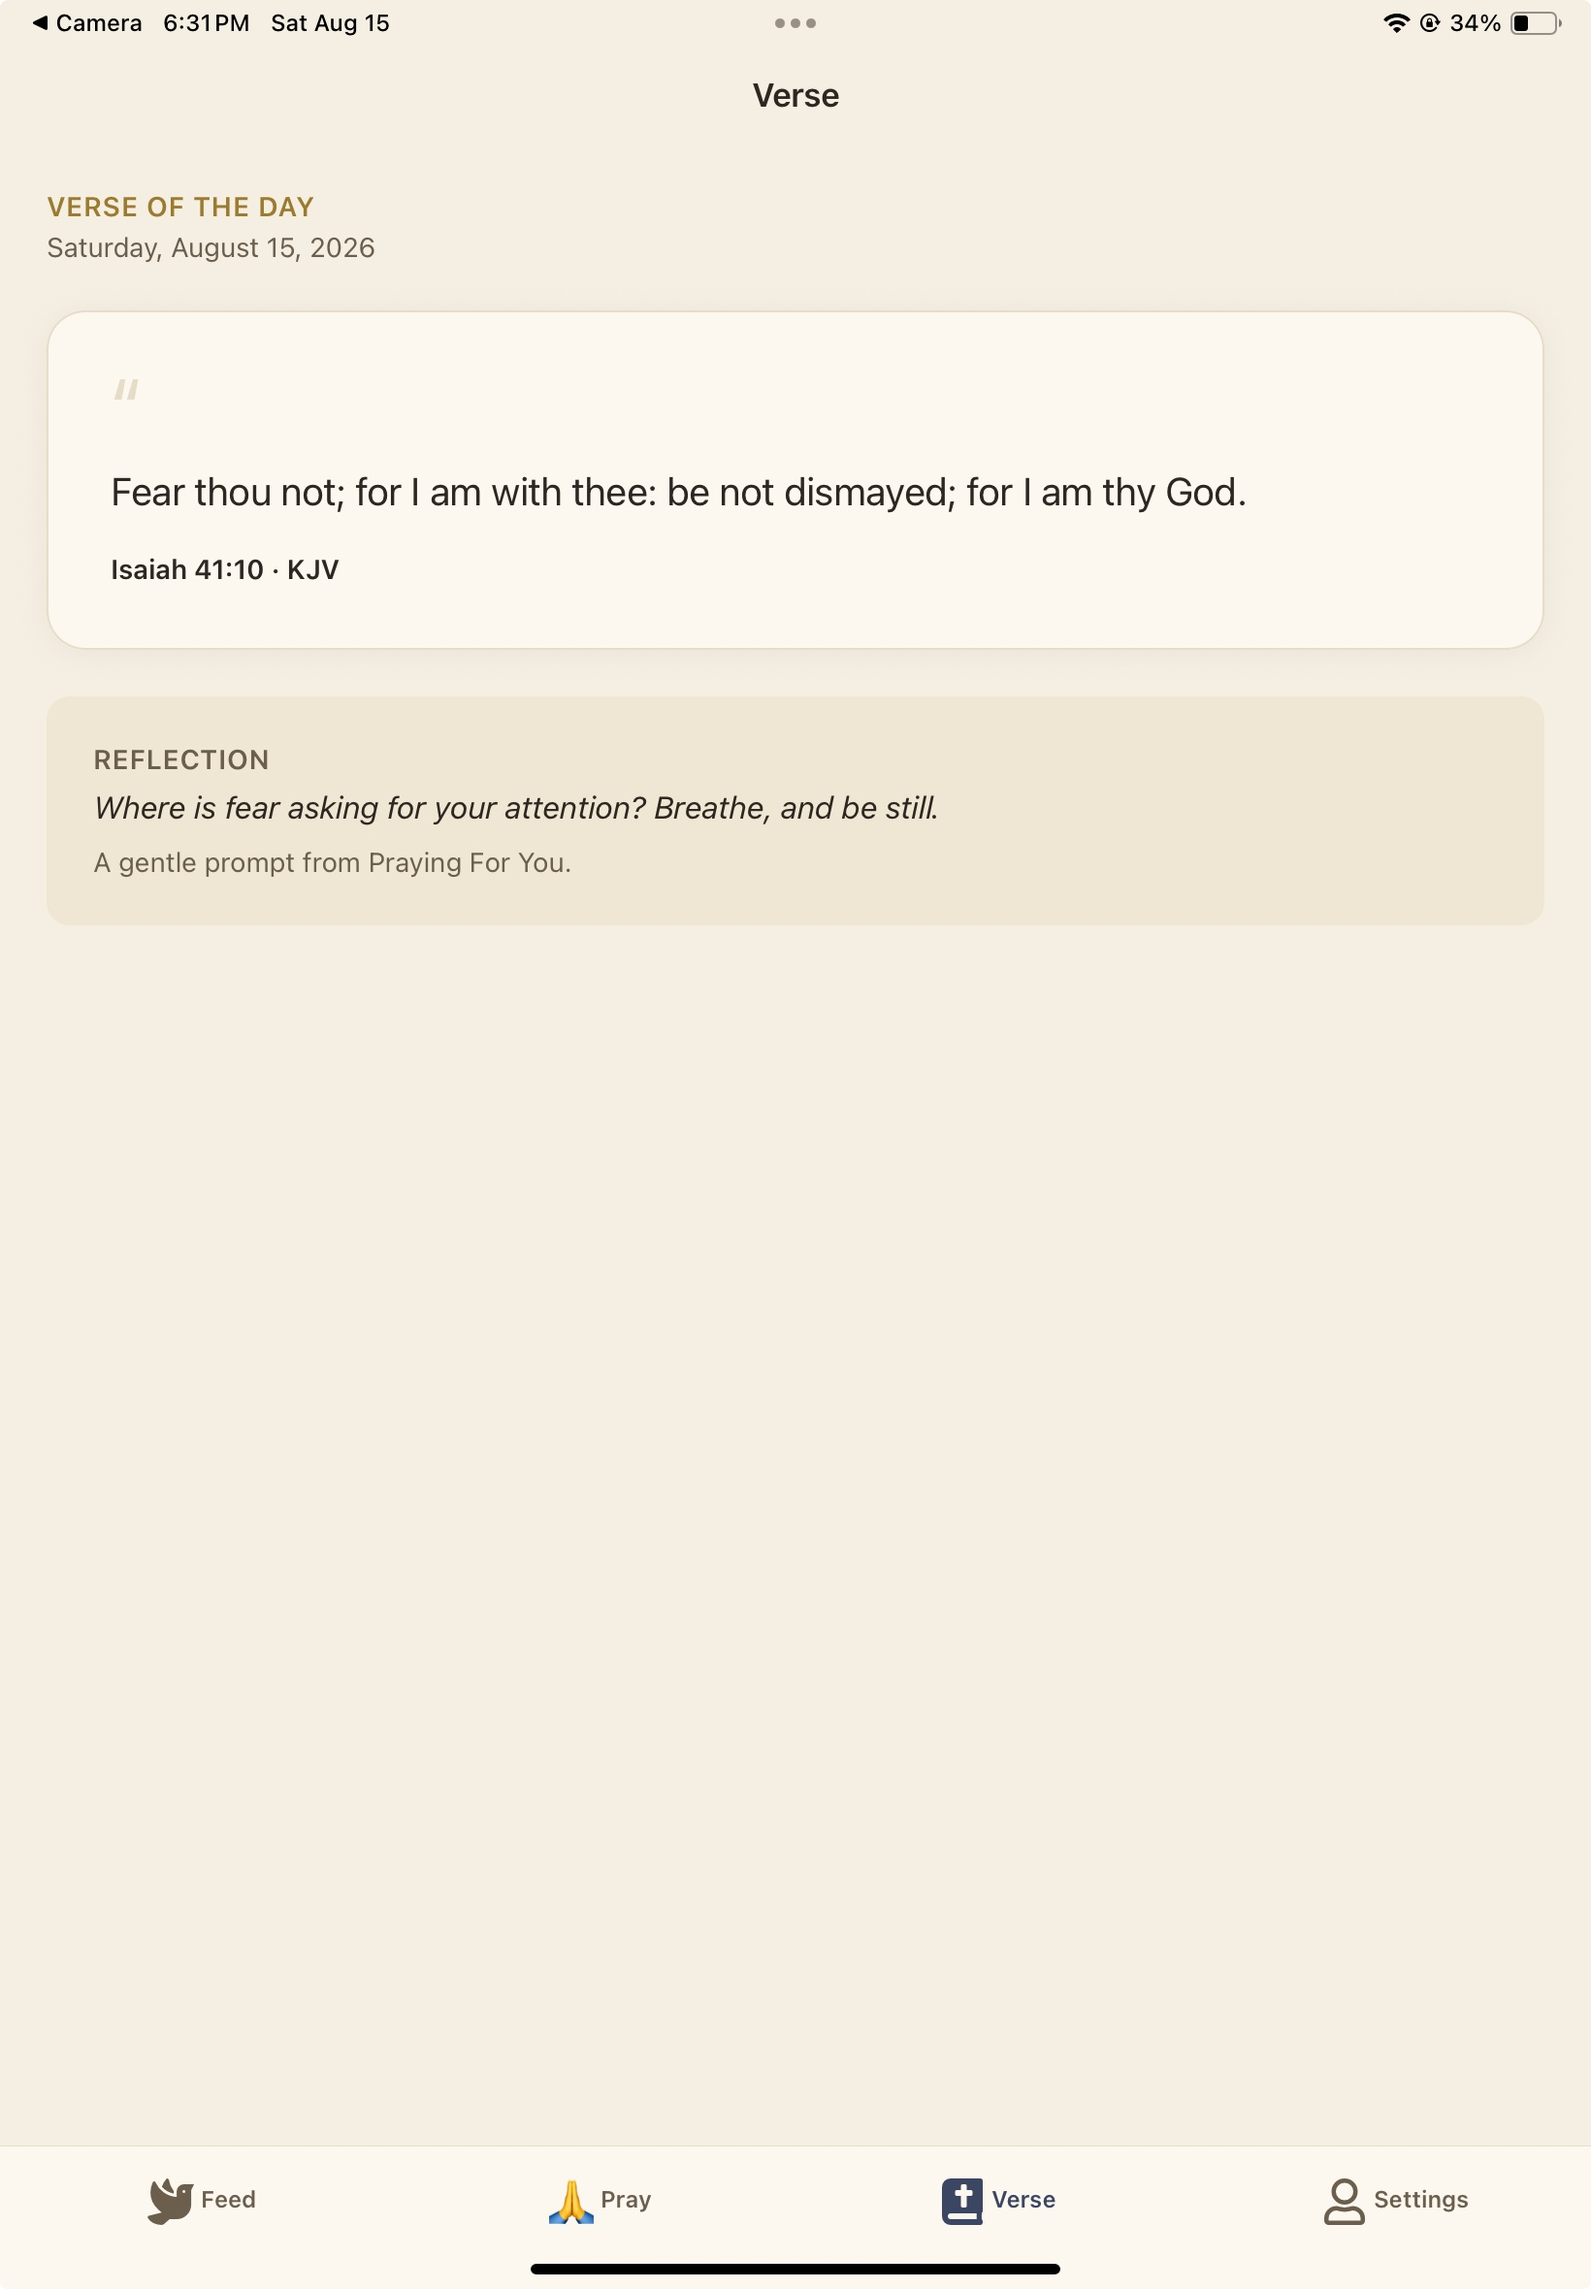
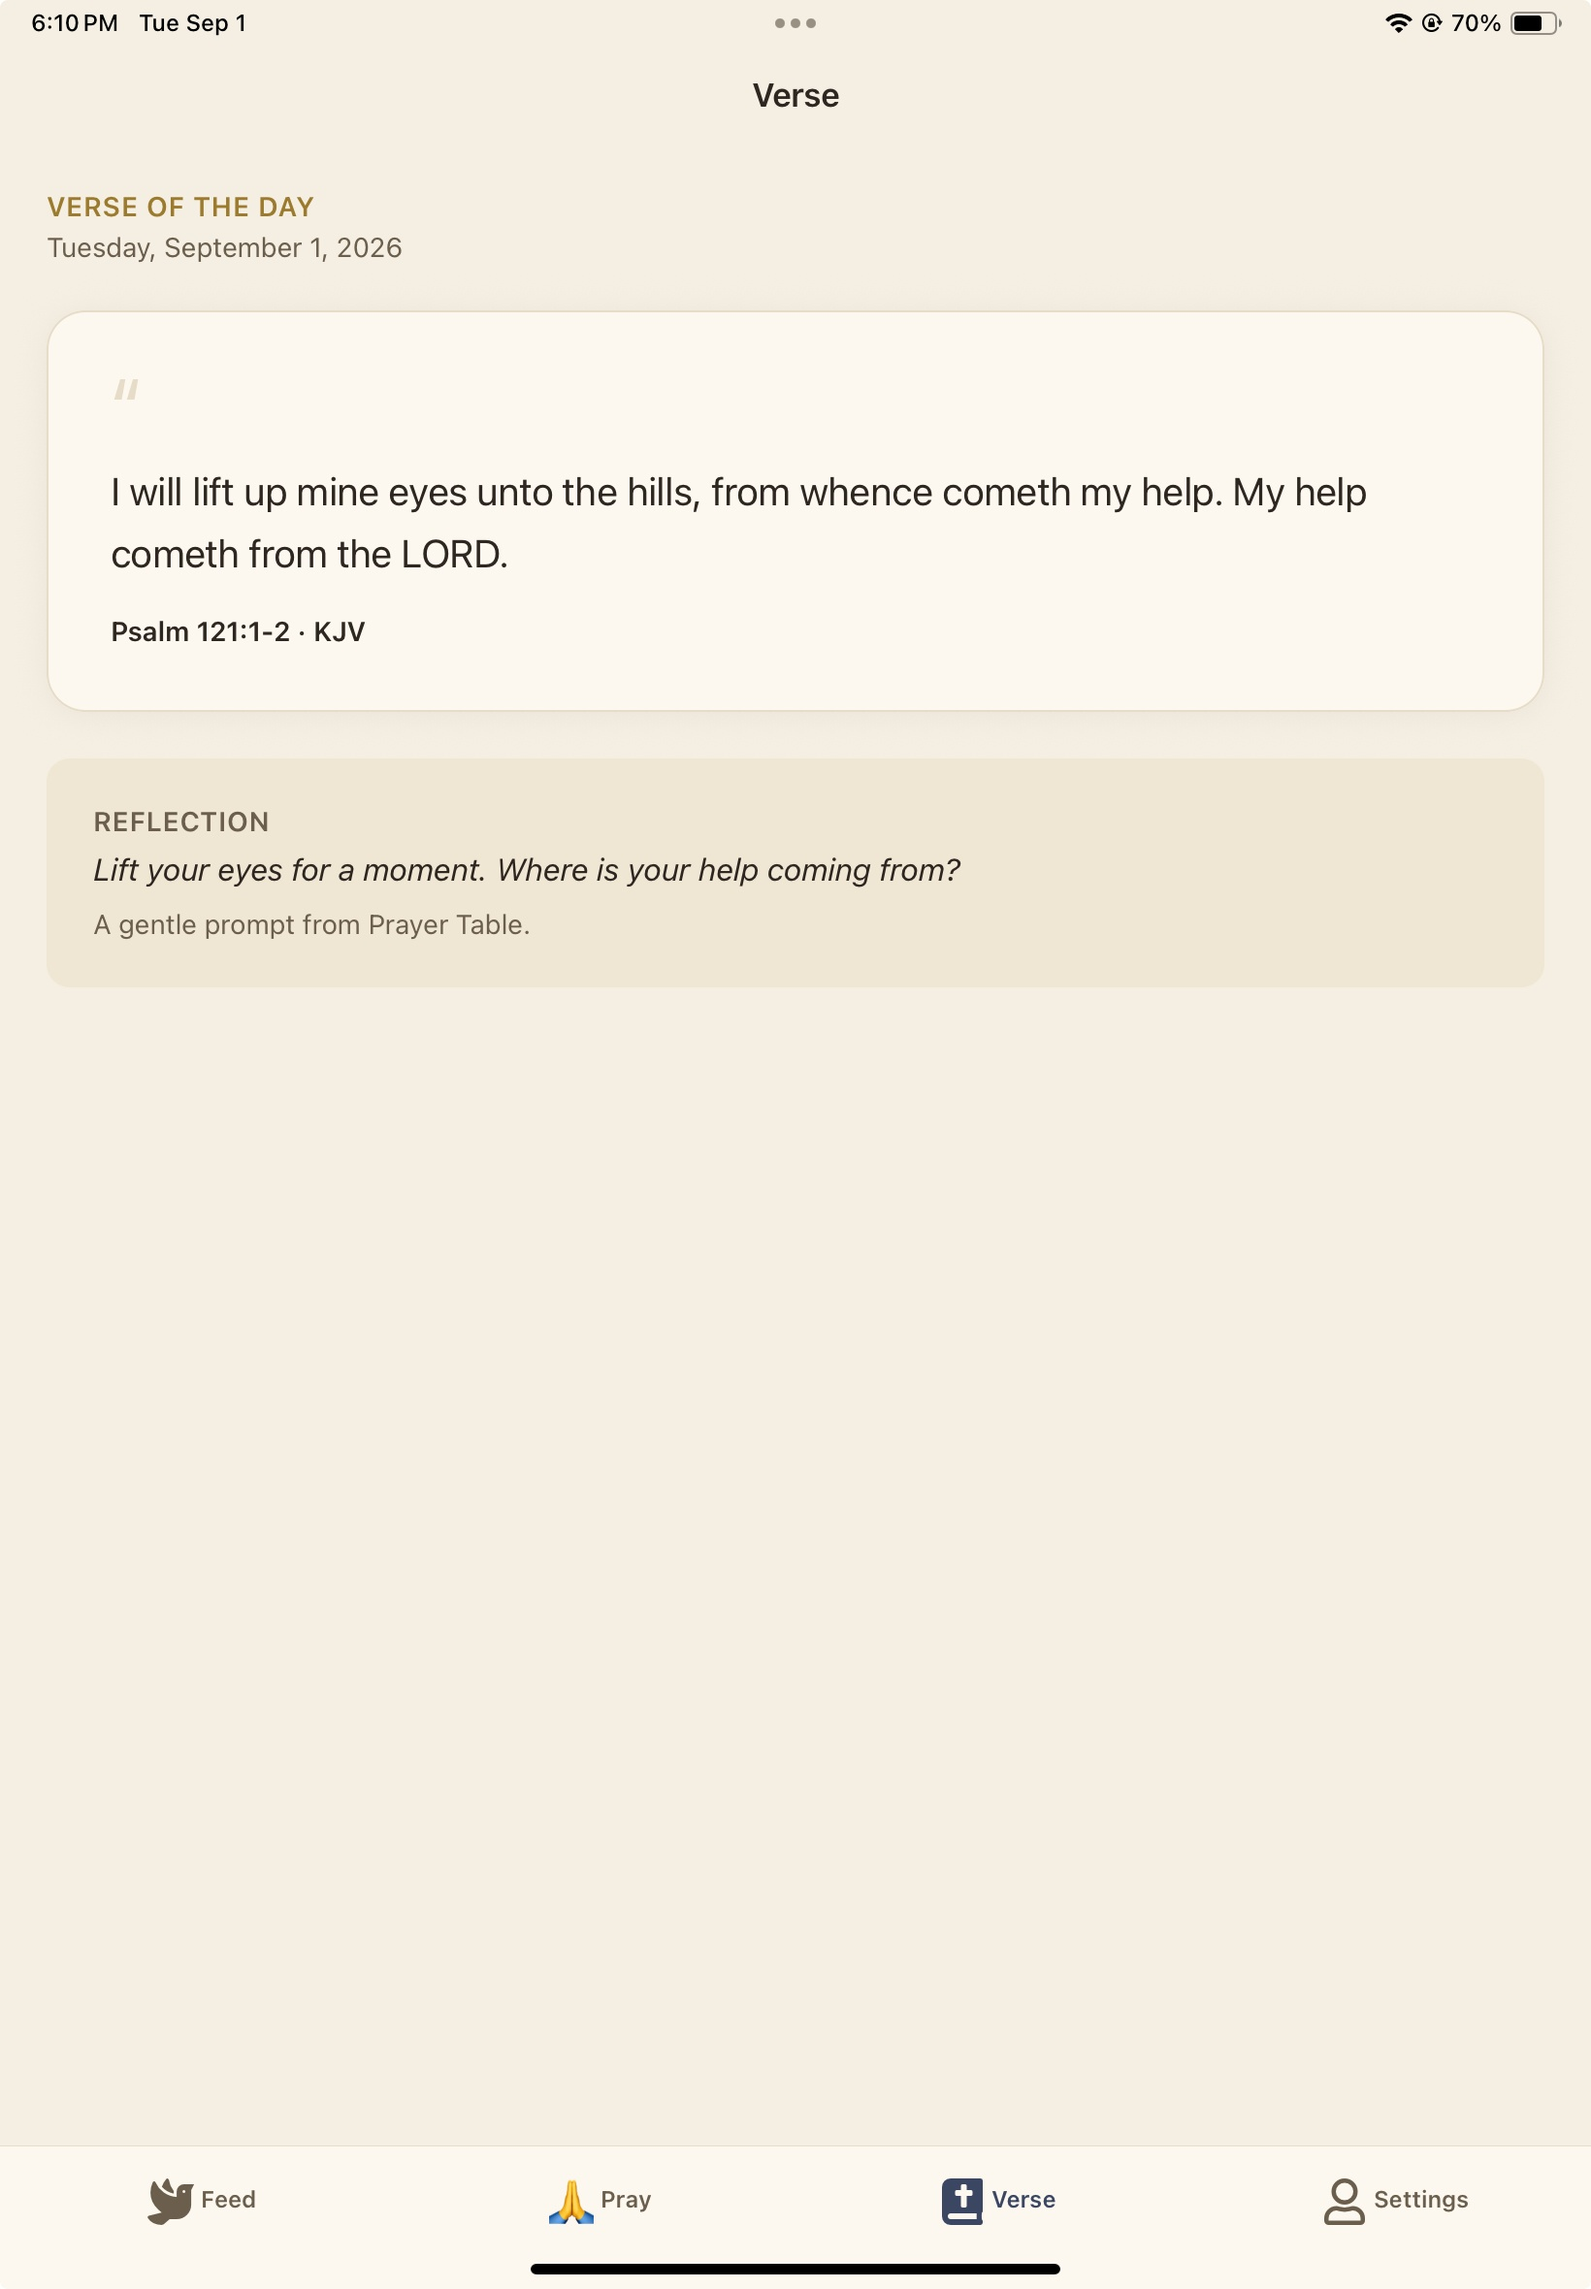
Refresh store assets for Prayer Table

diff --git a/store-assets/review/index.html b/store-assets/review/index.html
@@ -3,7 +3,7 @@
 <head>
   <meta charset="utf-8">
   <meta name="viewport" content="width=device-width, initial-scale=1">
-  <title>Praying For You Store Asset Review</title>
+  <title>Prayer Table Store Asset Review</title>
   <style>
     :root { color-scheme: light; --paper:#f5efe3; --ink:#2b2118; --muted:#6f6257; --gold:#b58a3b; --line:#d8c9b5; --card:#fffdf8; }
     * { box-sizing:border-box; } body { margin:0; background:var(--paper); color:var(--ink); font:16px/1.5 system-ui,sans-serif; }
@@ -18,13 +18,13 @@
 </head>
 <body><main>
   <p class="status">APPROVED BY OWNER</p>
-  <h1>Praying For You Store Assets v0.1</h1>
+  <h1>Prayer Table Store Assets v0.2</h1>
   <p>A focused owner review of production-ready store graphics and authentic current-app screenshots.</p>
   <h2>Completed graphics</h2>
   <section class="grid">
     <article class="card"><img class="icon" src="../apple/app-icon-1024.png" alt="Praying hands app icon on a warm cream background"><h3>Apple App Store icon</h3><dl><dt>Platform</dt><dd>Apple App Store</dd><dt>Dimensions</dt><dd>1024 x 1024 px</dd><dt>File</dt><dd><code>apple/app-icon-1024.png</code></dd><dt>Source</dt><dd><code>mobile-app/assets/icon.png</code></dd><dt>Status</dt><dd>Complete, pending approval</dd></dl></article>
     <article class="card"><img class="icon" src="../google-play/app-icon-512.png" alt="Praying hands app icon on a warm cream background"><h3>Google Play icon</h3><dl><dt>Platform</dt><dd>Google Play</dd><dt>Dimensions</dt><dd>512 x 512 px</dd><dt>File</dt><dd><code>google-play/app-icon-512.png</code></dd><dt>Source</dt><dd><code>mobile-app/assets/icon.png</code></dd><dt>Status</dt><dd>Complete, pending approval</dd></dl></article>
-    <article class="card"><img class="feature" src="../google-play/feature-graphic-1024x500.png" alt="Praying For You feature graphic with the words Share prayer. Pray together."><h3>Google Play feature graphic</h3><dl><dt>Platform</dt><dd>Google Play</dd><dt>Dimensions</dt><dd>1024 x 500 px</dd><dt>File</dt><dd><code>google-play/feature-graphic-1024x500.png</code></dd><dt>Source</dt><dd>Current icon and approved subtitle</dd><dt>Status</dt><dd>Complete, pending approval</dd></dl></article>
+    <article class="card"><img class="feature" src="../google-play/feature-graphic-1024x500.png" alt="Prayer Table feature graphic with the words Share prayer. Pray together."><h3>Google Play feature graphic</h3><dl><dt>Platform</dt><dd>Google Play</dd><dt>Dimensions</dt><dd>1024 x 500 px</dd><dt>File</dt><dd><code>google-play/feature-graphic-1024x500.png</code></dd><dt>Source</dt><dd>Current icon and approved subtitle</dd><dt>Status</dt><dd>Complete, pending approval</dd></dl></article>
   </section>
   <h2>Screenshot set</h2>
   <h3>Apple iPhone 6.3-inch, 1179 x 2556</h3>

diff --git a/store-assets/validation/build_assets.py b/store-assets/validation/build_assets.py
@@ -53,7 +53,7 @@ def font(size: int, bold: bool = False):
     return ImageFont.load_default()
 
 draw = ImageDraw.Draw(canvas)
-draw.text((82, 157), "Praying For You", font=font(55, True), fill="#2B2118")
+draw.text((82, 157), "Prayer Table", font=font(55, True), fill="#2B2118")
 draw.text((85, 235), "Share prayer. Pray together.", font=font(27), fill="#5F4B3A")
 draw.rounded_rectangle((84, 290, 380, 296), radius=3, fill="#B58A3B")
 canvas.save(FEATURE, "PNG", optimize=True)
@@ -75,7 +75,7 @@ ipad_sources = [
     ("02-create-request.jpeg", "02-create-request-and-anonymous-choice.jpg"),
     ("04-prayer-detail.jpeg", "03-prayer-detail.jpg"),
     ("05-prayed-for.jpeg", "04-prayers-prayed-for.jpg"),
-    ("06-verse-of-day.jpeg", "05-verse-of-the-day.jpg"),
+    ("06-verse-of-day-prayer-table.jpeg", "05-verse-of-the-day.jpg"),
 ]
 android_sources = [
     ("01-feed.png", "01-shared-prayer-feed.png"),
@@ -83,7 +83,7 @@ android_sources = [
     ("03-anonymous-choice.png", "03-anonymous-display-choice.png"),
     ("04-prayer-detail.png", "04-prayer-detail.png"),
     ("05-prayed-for.png", "05-prayers-prayed-for.png"),
-    ("06-verse-of-day.png", "06-verse-of-the-day.png"),
+    ("06-verse-of-day-prayer-table.png", "06-verse-of-the-day.png"),
 ]
 
 for source_name, output_name in iphone_sources:

diff --git a/store-assets/validation/validate_assets.py b/store-assets/validation/validate_assets.py
@@ -70,7 +70,7 @@ raw_counts = {
     "ios-iphone": len(list((ROOT / "store-assets/screenshots/raw/ios-iphone").glob("*.png"))),
     "ios-ipad": len(list((ROOT / "store-assets/screenshots/raw/ios-ipad").glob("*.jpeg"))),
 }
-ok &= raw_counts == {"android-phone": 6, "ios-iphone": 6, "ios-ipad": 6}
+ok &= raw_counts == {"android-phone": 7, "ios-iphone": 8, "ios-ipad": 7}
 
 report = {"status": "PASS" if ok else "FAIL", "assets": results, "broken_review_board_paths": broken,
           "sensitive_text_hits": sensitive_hits, "unicode_em_dash_count": emdash,

diff --git a/store-assets/STORE_ASSET_MANIFEST.md b/store-assets/STORE_ASSET_MANIFEST.md
@@ -1,8 +1,8 @@
-# Praying For You Store Asset Manifest v0.1
+# Prayer Table Store Asset Manifest v0.2
 
-Status: APPROVED BY OWNER
+Status: UPDATED FOR PRAYER TABLE; TECHNICAL VALIDATION PASSED; OWNER VISUAL REVIEW PENDING
 
-Prepared and validated: 2026-08-15
+Prepared and validated: 2026-09-01
 
 ## Completed graphics
 
@@ -10,7 +10,7 @@ Prepared and validated: 2026-08-15
 |---|---|---:|---|---|---|---:|---|---|
 | `apple/app-icon-1024.png` | Apple | 1024 x 1024 | PNG | RGB | None | 154,115 | Current `mobile-app/assets/icon.png` | PASS |
 | `google-play/app-icon-512.png` | Google Play | 512 x 512 | PNG | RGBA | Opaque only | 49,963 | Current `mobile-app/assets/icon.png` | PASS |
-| `google-play/feature-graphic-1024x500.png` | Google Play | 1024 x 500 | PNG | RGB | None | 105,717 | Current adaptive icon, palette, approved name and subtitle | PASS |
+| `google-play/feature-graphic-1024x500.png` | Google Play | 1024 x 500 | PNG | RGB | None | 103,202 | Current adaptive icon, palette, Prayer Table name, and approved subtitle | PASS |
 
 ## Completed Apple iPhone screenshots
 
@@ -27,7 +27,7 @@ All six are authentic current-app captures supplied on 2026-08-15 at Apple's acc
 
 ## Completed Apple iPad screenshots
 
-These five are authentic current-app captures supplied on 2026-08-15 at Apple's accepted 1640 x 2360 portrait size. Apple states that accepted smaller iPad screenshots are scaled for the required 13-inch display if native 13-inch screenshots are not provided. The raw create-request and anonymous-choice files are byte-for-byte identical, so the production set includes that view once and retains both originals.
+These five are authentic current-app captures at Apple's accepted 1640 x 2360 portrait size. The Verse capture was refreshed from Prayer Table build 4 on 2026-09-01; the other four were supplied on 2026-08-15 and contain no visible old branding. Apple states that accepted smaller iPad screenshots are scaled for the required 13-inch display if native 13-inch screenshots are not provided. The raw create-request and anonymous-choice files are byte-for-byte identical, so the production set includes that view once and retains both originals.
 
 | File | Format, mode, alpha | Bytes | Raw source | Result |
 |---|---|---:|---|---|
@@ -35,11 +35,11 @@ These five are authentic current-app captures supplied on 2026-08-15 at Apple's 
 | `apple/screenshots/ipad-11/02-create-request-and-anonymous-choice.jpg` | JPEG, RGB, none | 307,764 | `screenshots/raw/ios-ipad/02-create-request.jpeg` | PASS |
 | `apple/screenshots/ipad-11/03-prayer-detail.jpg` | JPEG, RGB, none | 135,182 | `screenshots/raw/ios-ipad/04-prayer-detail.jpeg` | PASS |
 | `apple/screenshots/ipad-11/04-prayers-prayed-for.jpg` | JPEG, RGB, none | 176,547 | `screenshots/raw/ios-ipad/05-prayed-for.jpeg` | PASS |
-| `apple/screenshots/ipad-11/05-verse-of-the-day.jpg` | JPEG, RGB, none | 146,391 | `screenshots/raw/ios-ipad/06-verse-of-day.jpeg` | PASS |
+| `apple/screenshots/ipad-11/05-verse-of-the-day.jpg` | JPEG, RGB, none | 155,152 | `screenshots/raw/ios-ipad/06-verse-of-day-prayer-table.jpeg` | PASS |
 
 ## Completed Google Play phone screenshots
 
-All six are authentic Pixel 2 Android Emulator captures from Android 16, API 36, supplied on 2026-08-15 at 1080 x 1920 portrait. Export processing only flattened the original opaque alpha channel.
+All six are authentic Pixel 2 Android Emulator captures from Android 16, API 36, at 1080 x 1920 portrait. The Verse capture was refreshed from Prayer Table build 4 on 2026-09-01; the other five were supplied on 2026-08-15 and contain no visible old branding. Export processing only flattened the original opaque alpha channel.
 
 | File | Format, mode, alpha | Bytes | Raw source | Result |
 |---|---|---:|---|---|
@@ -48,7 +48,7 @@ All six are authentic Pixel 2 Android Emulator captures from Android 16, API 36,
 | `google-play/screenshots/phone/03-anonymous-display-choice.png` | PNG, RGB, none | 153,843 | `screenshots/raw/android-phone/03-anonymous-choice.png` | PASS |
 | `google-play/screenshots/phone/04-prayer-detail.png` | PNG, RGB, none | 107,117 | `screenshots/raw/android-phone/04-prayer-detail.png` | PASS |
 | `google-play/screenshots/phone/05-prayers-prayed-for.png` | PNG, RGB, none | 166,732 | `screenshots/raw/android-phone/05-prayed-for.png` | PASS |
-| `google-play/screenshots/phone/06-verse-of-the-day.png` | PNG, RGB, none | 136,002 | `screenshots/raw/android-phone/06-verse-of-day.png` | PASS |
+| `google-play/screenshots/phone/06-verse-of-the-day.png` | PNG, RGB, none | 151,196 | `screenshots/raw/android-phone/06-verse-of-day-prayer-table.png` | PASS |
 
 All screenshot table entries use the dimensions stated in their section heading.
 
@@ -58,7 +58,7 @@ None. Native 13-inch iPad captures were not supplied, but Apple's specification 
 
 ## Authenticity, privacy, and substitutions
 
-- Capture date: 2026-08-15.
+- Capture dates: 2026-08-15 for the original approved set; 2026-09-01 for the Prayer Table welcome, About, Android Verse, and iPad Verse refreshes.
 - Android source: Pixel 2 Android Emulator, Android 16, API 36, 1080 x 1920 portrait.
 - iPhone source: owner device, model not recorded, 1179 x 2556 portrait.
 - iPad source: owner device, model not recorded, 1640 x 2360 portrait.
@@ -66,6 +66,7 @@ None. Native 13-inch iPad captures were not supplied, but Apple's specification 
 - No email address, UID, authentication screen, notification, real testimonial, user count, adoption claim, or crisis-service message appears.
 - No redaction or test-data substitution was necessary during export.
 - Raw originals remain unchanged.
+- The 2026-09-01 iPhone welcome and Settings/About captures are archived as portfolio and website sources; they are not part of the six-image production store screenshot sequence.
 
 ## Official requirements verified
 
@@ -103,4 +104,4 @@ Date: 2026-08-15
 
 Notes: Store asset package v0.1 approved as presented.
 
-Package approved by the owner on 2026-08-15.
+Package v0.1 was approved by the owner on 2026-08-15. Package v0.2 updates visible branding to Prayer Table and awaits final owner visual approval.

diff --git a/store-assets/screenshots/CAPTURE_GUIDE.md b/store-assets/screenshots/CAPTURE_GUIDE.md
@@ -4,6 +4,8 @@ Status: APPROVED BY OWNER ON 2026-08-15
 
 Authentic, high-resolution app screenshots were supplied by the owner on 2026-08-15. This file preserves the capture specification and provenance for future refreshes. Do not fill screenshot slots with mock UI.
 
+Prayer Table refreshes were supplied on 2026-09-01 for the Android Verse screen and iPad Verse screen. Two additional iPhone captures, the Prayer Table welcome screen and Settings/About screen, were archived for website, portfolio, and social use outside the six-image store sequence.
+
 Capture six portrait flows using an owner-controlled adult test account and neutral test data. Capture the raw app UI with no device frame or marketing caption.
 
 | Order | Screen and required state | Safe test content | Raw destinations |

diff --git a/store-assets/review/REVIEW_DISPOSITION.md b/store-assets/review/REVIEW_DISPOSITION.md
@@ -1,6 +1,6 @@
 # Multidisciplinary Review Disposition
 
-Status: APPROVED BY OWNER ON 2026-08-15
+Status: V0.1 APPROVED BY OWNER ON 2026-08-15; PRAYER TABLE V0.2 VISUAL REVIEW PENDING
 
 | Review | Disposition |
 |---|---|
